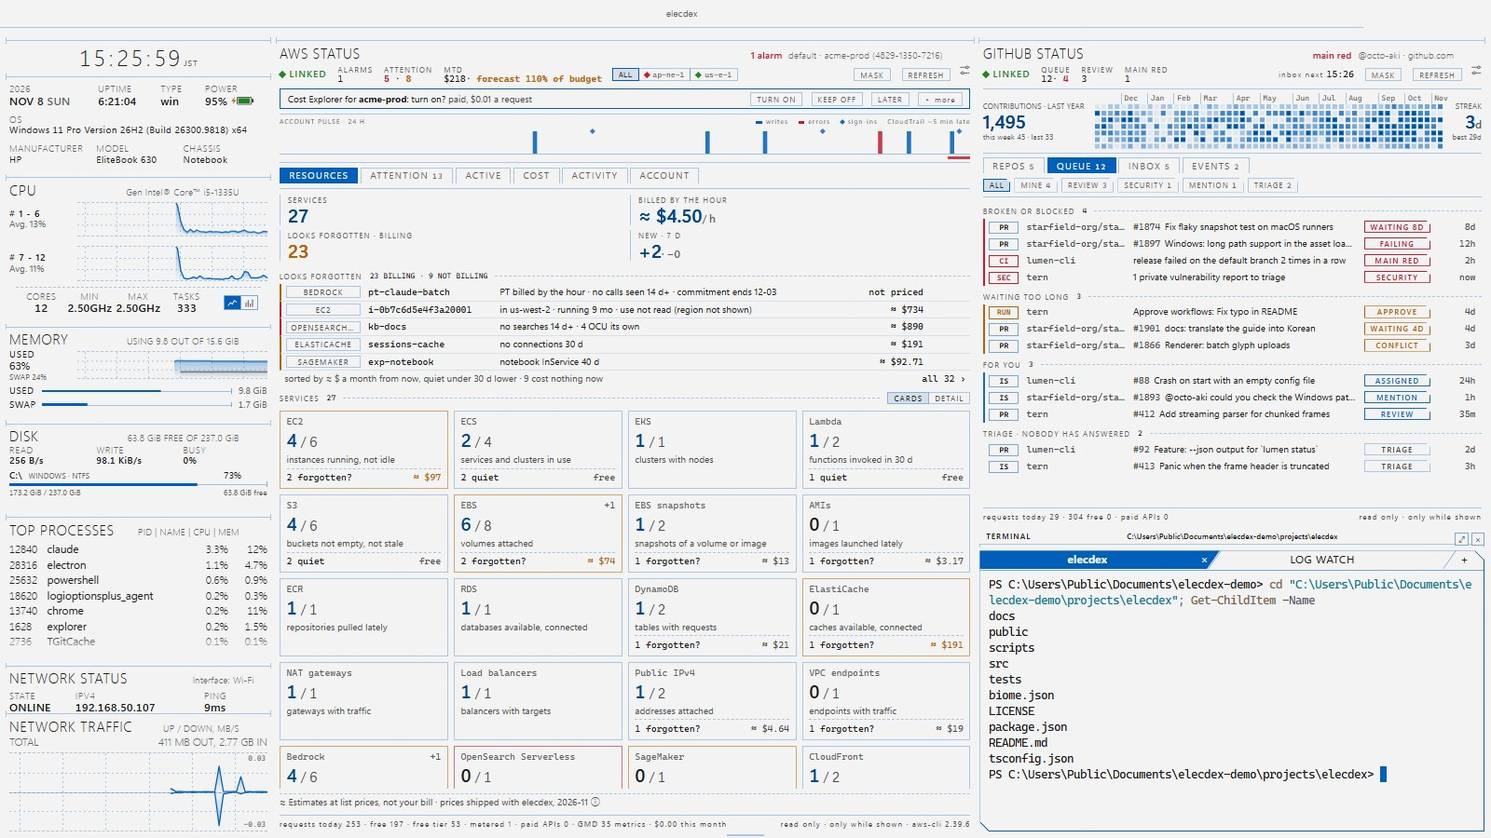
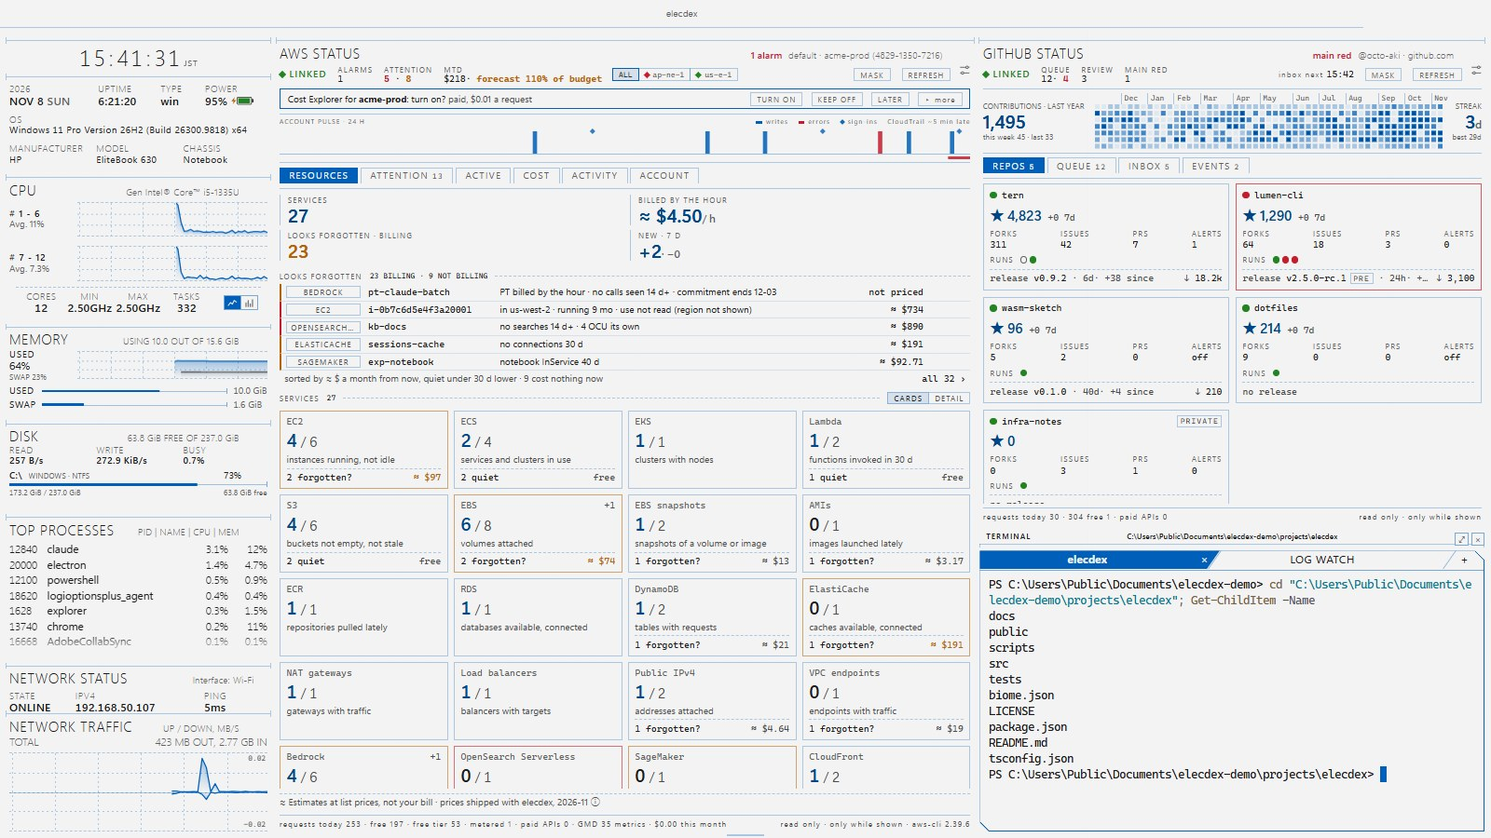
feat(github): GITHUB STATUS opens on REPOS / GITHUB STATUS を REPOS で開く
REPOS, already the first tab, is now the tab a pane opens on, by the user's decision; the others, QUEUE too, are kept in the pane's state. demo:github starts on the repositories and moves to QUEUE, and the GitHub pane's shot and the cloud preset's show the tiles. / 先頭に並べた REPOS を、利用者の決定でペインが開くタブにした。QUEUE を含むほかのタブはペインの状態に持つ。demo:github はリポジトリから始めて QUEUE に移り、GitHub のペインと cloud プリセットの絵はタイルを写す。

diff --git a/tests/e2e/panes/github.spec.ts b/tests/e2e/panes/github.spec.ts
@@ -17,11 +17,14 @@ const tab = (page: Page, index: 0 | 1) => page.getByTestId('tab').nth(index)
 
 const watching = (page: Page) => page.evaluate(() => window.elecdex.github.watching())
 
-test('reads the queue from gh while shown, and opens a row on github.com', async () => {
+test('opens on the repositories, reads the queue from gh while shown, and opens a row on github.com', async () => {
   const { app, page, close } = await launch(undefined, { layout: inTabs('github') })
   try {
     await captureOpens(app)
     await expect(page.getByTestId('github-link')).toContainText('LINKED')
+    // REPOS is the tab a pane opens on (the user's decision 2026-11-08).
+    await expect(page.getByTestId('github-tile').first()).toBeVisible()
+    await page.getByTestId('github-tab-queue').click({ delay: 20 })
     await expect(page.getByTestId('github-queue-row').first()).toBeVisible()
     // The red default branch comes from the runs, read on the first showing.
     await expect(page.getByTestId('github-red')).toBeVisible()
@@ -47,13 +50,13 @@ test('stops reading behind a tab, and keeps what it showed', async () => {
   const { app, page, close } = await launch(undefined, { layout: inTabs('github') })
   try {
     await expect(page.getByTestId('github-link')).toContainText('LINKED')
-    await expect(page.getByTestId('github-queue-row').first()).toBeVisible()
+    await expect(page.getByTestId('github-tile').first()).toBeVisible()
     await tab(page, 1).click({ delay: 20 })
     await expect.poll(() => watching(page)).toEqual([])
     // gh gone while hidden: what shows again is what main kept.
     await cloudMode(app, 'github', 'offline')
     await tab(page, 0).click({ delay: 20 })
-    await expect(page.getByTestId('github-queue-row').first()).toBeVisible()
+    await expect(page.getByTestId('github-tile').first()).toBeVisible()
     await expect.poll(() => watching(page)).toHaveLength(1)
   } finally {
     await cloudMode(app, 'github', null)

diff --git a/tests/component/github-widget.test.ts b/tests/component/github-widget.test.ts
@@ -124,7 +124,7 @@ describe('GithubWidget', () => {
   })
 
   it("shows main's QUEUE and opens a row by its id, never by a URL", async () => {
-    await mount()
+    await mount({ tab: 'queue' })
     const board = await boardOf('demo')
     await push(board)
     expect(screen.getByTestId('github-link').textContent).toContain('LINKED')
@@ -138,16 +138,20 @@ describe('GithubWidget', () => {
   it('switches tabs through the pane state', async () => {
     await mount()
     await push(await boardOf('demo'))
-    // REPOS at the left (the user's decision); QUEUE is still the tab a pane opens on.
+    // REPOS at the left, and the tab a pane opens on (the user's decision 2026-11-08).
     expect(screen.getAllByRole('tab').map((t) => t.dataset.testid)).toEqual([
       'github-tab-repos',
       'github-tab-queue',
       'github-tab-inbox',
       'github-tab-events',
     ])
-    expect(screen.getByTestId('github-tab-queue').getAttribute('aria-selected')).toBe('true')
+    expect(screen.getByTestId('github-tab-repos').getAttribute('aria-selected')).toBe('true')
+    expect(screen.getAllByTestId('github-tile').length).toBeGreaterThan(0)
+    // QUEUE is stored, REPOS (the default) is not.
+    await fireEvent.click(screen.getByTestId('github-tab-queue'))
+    expect(held.tab).toBe('queue')
     await fireEvent.click(screen.getByTestId('github-tab-repos'))
-    expect(held.tab).toBe('repos')
+    expect(held.tab).toBeUndefined()
   })
 
   it("takes a repository's card away as its tile is pressed into the runs", async () => {

diff --git a/src/renderer/widgets/github/GithubWidget.svelte b/src/renderer/widgets/github/GithubWidget.svelte
@@ -101,7 +101,7 @@ let inboxFilter = $state<string>('all')
 
 function selectTab(tab: Tab): void {
   sfx.play('panel')
-  patch({ tab: tab === 'queue' ? undefined : tab, drill: undefined })
+  patch({ tab: tab === 'repos' ? undefined : tab, drill: undefined })
 }
 
 const queue = $derived((board?.queue ?? []).filter((item) => queueMatches(item, filter)))
@@ -401,7 +401,7 @@ const short = $derived(height < 30 * 16)
     {/if}
 
     <div class="tabs" role="tablist" aria-label="github status">
-      <!-- REPOS first, at the left (the user's decision 2026-11-08); QUEUE stays the tab a new pane opens on. -->
+      <!-- REPOS first, at the left, and the tab a pane opens on (the user's decision 2026-11-08). -->
       {#each [['repos', 'REPOS', board?.repos.length], ['queue', 'QUEUE', board?.queue.length], ['inbox', 'INBOX', board?.inbox.readable ? board.inbox.items.filter((item) => item.unread).length : '—'], ['events', 'EVENTS', board?.events.length]] as [id, label, count] (id)}
         <button type="button" role="tab" aria-selected={choices.tab === id} onclick={() => selectTab(id as Tab)} data-testid="github-tab-{id}">{label}{#if count !== undefined}<em>{count}</em>{/if}</button>
       {/each}

diff --git a/tests/unit/github.test.ts b/tests/unit/github.test.ts
@@ -133,7 +133,8 @@ describe('board keys', () => {
   it('reads the pane state with its defaults', () => {
     expect(readGithubPane(undefined)).toEqual({
       spec: { repos: 'auto', inbox: 'all' },
-      tab: 'queue',
+      // REPOS is the tab a pane opens on (the user's decision 2026-11-08).
+      tab: 'repos',
       mask: false,
       band: true,
       drill: null,
@@ -141,14 +142,14 @@ describe('board keys', () => {
     expect(
       readGithubPane({
         repos: ['octo/tern', '..'],
-        tab: 'repos',
+        tab: 'queue',
         mask: true,
         band: false,
         drill: '../x',
       }),
     ).toMatchObject({
       spec: { repos: ['octo/tern'] },
-      tab: 'repos',
+      tab: 'queue',
       mask: true,
       band: false,
       drill: null,

diff --git a/src/shared/github/board.ts b/src/shared/github/board.ts
@@ -55,7 +55,8 @@ export function readGithubPane(state: Record<string, unknown> | undefined): {
   const pinned = Array.isArray(s.repos)
     ? s.repos.filter((r): r is string => repoName(r) !== null)
     : []
-  const tab = s.tab === 'inbox' || s.tab === 'events' || s.tab === 'repos' ? s.tab : 'queue'
+  // REPOS is the tab a pane opens on (the user's decision 2026-11-08); the others are stored.
+  const tab = s.tab === 'queue' || s.tab === 'inbox' || s.tab === 'events' ? s.tab : 'repos'
   return {
     spec: {
       repos: pinned.length > 0 ? pinned : 'auto',

diff --git a/docs/decisions.md b/docs/decisions.md
@@ -538,3 +538,4 @@
 | AWS STATUS の RESOURCES、CARDS（2026-11-08） | 利用者の提案「タイルの状態の線がビジー。GITHUB STATUS のように、サービスごとに 使用中 / 総数 をカードで。今の表示と切り替えられるようにし、既定をカードに」を、Fable 5.1 の UX/UI レビュー（aws.md §14.12 の 13 件）を入れて作った。サービスの見出し `SERVICES n` の右に `CARDS · DETAIL`、既定は CARDS で、DETAIL を選んだときだけペインの状態に `resView: 'detail'` を持つ。DETAIL は今のタイルのまま。数は main の純粋な `shared/aws/in-use.ts`（`serviceUse`、`ResourceTile.use`）が、見ているリージョンの行だけを LOOKS FORGOTTEN の行と鍵で突き合わせて数え、`総数 − 使用中 = forgotten + stopped + quiet + kept` が全タイルで成り立つ（代役の demo・partial・quiet・noregion と境界の例で単体テスト）。KEEP したものは忘れものから外れるが「使用中」の語（`volumes attached` など）にも当たらないので、§14.12 の 3 つに `kept` を足した。stopped は種類ごとの状態（EC2 の running 以外、RDS の available 以外、ECS の desired 0、NAT・VPC エンドポイント・TGW・VPN・ElastiCache・Redshift のクラスタの available 以外、SageMaker の InService 以外、Kinesis の ACTIVE・UPDATING 以外、Transfer の ONLINE 以外、CloudFront の無効、KMS の Disabled と PendingDeletion、Bedrock の PT の InService 以外）で、判定に当たらなかったものだけ。カードは群の固定の順、13 rem 以上の auto-fill、狭いペインは 2 列。代役のボリュームの id が東京の 5 台で同じになっていて、EBS の一覧が同じ鍵で落ちたので直した | 利用者の提案と Fable 5.1 のレビュー（aws.md §14.12）。ELSEWHERE を数えないのは、モックで `EBS 18 / 19` に `2 forgotten?` と出て引き算が合わなかったため。DETAIL のタイルの下の行は今のまま（ELSEWHERE の忘れものも数える） |
 | AWS STATUS と GITHUB STATUS の COPY、拒まれたサービスのカード（2026-11-08、利用者の報告） | COPY（サインインのコマンド、PARTIAL の COPY POLICY、GitHub のサインイン）は押しても点滅せず、すぐ COPIED に替わっていた。ほかの選択と同じく `afterBlink` の 3 拍の点滅のあとでコピーし、2 つのペインとも `CopyFlag` で COPIED を戻す（GitHub の自前の `setTimeout` をやめた）。RESOURCES の CARDS は、拒まれて何も読めていないサービスを `?` のカードにしていたが、十数枚並んでアカウントのものを埋めたので、DETAIL にタイルが無いのと同じくカードを出さず、Denied の行だけに名前を出す（利用者の決定） | 利用者の報告と決定 |
 | AWS STATUS の最初の表示の速さ、REFRESH の点滅、GITHUB STATUS のタブの順（2026-11-08、利用者の報告と決定） | **速さ**: この PC で AWS CLI の 1 回は約 1.2 秒（起動だけで 0.5 秒）。代役に 1 回 12 ms の遅れを入れて新しいアカウントの最初の 1 周を測ると 253 回で、CLI の枠 2 本・一括 1 本では、RESOURCES の数字まで約 33 秒、全サービスの件数まで約 230 秒、判定まで約 356 秒、全体で約 6 分半。ELSEWHERE の週 1 回の見回り（ほかのリージョンの describe 約 50 回）が件数の間に入っていた。枠を 4 本（`CLI_LANES`）、一括を 3 本（`BULK_LANES`）にし、見回りを判定の段（件数のあと）に回して、数字まで約 8 秒、件数まで約 85 秒、判定まで約 115 秒、全体で約 3 分。2 回目の起動（aws-inventory.json に読み取りがある）は 66 回で、ACTIVE の一覧を除いて約 3 秒で出る。6 本にしても数秒しか縮まず、Python の起動が並ぶ CPU を考えて 4 本にした。**REFRESH**: 押すと main が答える待ちの間ボタンが disabled になり、押下の点滅が 1 拍で切れていた。ほかの選択と同じく `afterBlink` の 3 拍のあとで頼む（両方のペイン）。MASK はアプリ全体のトグルと同じく押下の点滅だけのまま。**タブ**: GITHUB STATUS は REPOS を一番左に（利用者の決定）。新しいペインが開くタブは QUEUE のまま | 測定と利用者の報告・決定 |
+| GITHUB STATUS は REPOS で開く（2026-11-08、利用者の決定） | 先頭に並べた REPOS を、新しいペインが開くタブにもした。REPOS を既定にし、ほかのタブ（QUEUE も）をペインの状態に持つ。保存されたタブの無いペイン（これまで QUEUE で開いていたもの）も REPOS で開く。デモ（demo:github）は REPOS から始めて QUEUE に移り、pane-github.jpg と cloud プリセットの絵は REPOS を写す | 利用者の決定 |

diff --git a/docs/guide/panes-cloud.zh-CN.md b/docs/guide/panes-cloud.zh-CN.md
@@ -17,7 +17,7 @@ elecdex 是一个科幻风格的终端模拟器和系统监视器，是用 Elect
 ## cloud 预设
 
 <p align="center">
-  <img src="../screenshots/elecdex-cloud.jpg" alt="Business (Light) 主题下的 cloud 预设：左侧是系统列；虚构账户 acme-prod 的 AWS STATUS 窗格，显示一个告警、本月迄今金额及其相对预算的预测、两个区域的指示灯、询问 Cost Explorer 的一行、ACCOUNT PULSE 横带，以及显示 27 个服务、23 个看起来被遗忘且在计费的资源及其中最贵的 5 个、每个服务一张显示使用中 / 总数的卡片的 RESOURCES 标签页；右侧是虚构用户 octo-aki 的 GITHUB STATUS 窗格，显示贡献格子和按“损坏或受阻”“等待过久”“给你的”“待分拣”分组的 QUEUE；其下是一个 shell，旁边是 LOG WATCH 标签页">
+  <img src="../screenshots/elecdex-cloud.jpg" alt="Business (Light) 主题下的 cloud 预设：左侧是系统列；虚构账户 acme-prod 的 AWS STATUS 窗格，显示一个告警、本月迄今金额及其相对预算的预测、两个区域的指示灯、询问 Cost Explorer 的一行、ACCOUNT PULSE 横带，以及显示 27 个服务、23 个看起来被遗忘且在计费的资源及其中最贵的 5 个、每个服务一张显示使用中 / 总数的卡片的 RESOURCES 标签页；右侧是虚构用户 octo-aki 的 GITHUB STATUS 窗格，显示贡献格子和每个仓库的磁贴；其下是一个 shell，旁边是 LOG WATCH 标签页">
   <br><sub>cloud · Business (Light) · 替身 AWS CLI 和 gh，虚构的账户和用户</sub>
 </p>
 
@@ -155,8 +155,8 @@ AWS 托管策略 `ReadOnlyAccess`（或 `ViewOnlyAccess` 加 `AWSBillingReadOnly
 ## GITHUB STATUS
 
 <p align="center">
-  <img src="../screenshots/pane-github.jpg" alt="单独显示的 GITHUB STATUS 窗格，虚构用户 octo-aki：顶行为 QUEUE 12（其中 danger 4）、REVIEW 3、MAIN RED 1，以及下一次读取收件箱的时间；最近一年的贡献格子，1,495 次贡献、连续 3 天；带筛选的 QUEUE 标签页，按“损坏或受阻”（等待 8 天的拉取请求、失败的拉取请求、变红的默认分支、私密漏洞报告）、“等待过久”（待批准的工作流、等待 4 天的审查、冲突）、“给你的”（指派、提及、审查请求）和“待分拣”分组">
-  <br><sub>GITHUB STATUS · QUEUE · 替身 gh，虚构用户</sub>
+  <img src="../screenshots/pane-github.jpg" alt="单独显示的 GITHUB STATUS 窗格，虚构用户 octo-aki：顶行为 QUEUE 12（其中 danger 4）、REVIEW 3、MAIN RED 1，以及下一次读取收件箱的时间；最近一年的贡献格子，1,495 次贡献、连续 3 天；REPOS 标签页，每个仓库一个磁贴（4,823 星的 tern、1,290 星且默认分支变红的 lumen-cli、wasm-sketch、dotfiles 和私有的 infra-notes，各自显示复刻、议题、拉取请求、警报、最近的运行和最新发布）">
+  <br><sub>GITHUB STATUS · REPOS · 替身 gh，虚构用户</sub>
 </p>
 
 | | |
@@ -174,7 +174,7 @@ AWS 托管策略 `ReadOnlyAccess`（或 `ViewOnlyAccess` 加 `AWSBillingReadOnly
 
 | 标签页 | 显示内容 |
 | --- | --- |
-| **REPOS** | 每个仓库一个图块：星标及其 7 天变化、复刻、issue、拉取请求、警报、默认分支最近的运行、最新发布（含预发布）及其后的提交数，以及有推送权限时 14 天的访问量。可从图块下钻到它的运行、打开的拉取请求和发布 |
+| **REPOS**（*未发布：* 第一个标签页，窗格从这里打开） | 每个仓库一个图块：星标及其 7 天变化、复刻、issue、拉取请求、警报、默认分支最近的运行、最新发布（含预发布）及其后的提交数，以及有推送权限时 14 天的访问量。可从图块下钻到它的运行、打开的拉取请求和发布 |
 | **QUEUE** | 等你处理的事，每件一行，最重的在前：变红的默认分支、私密漏洞报告、失败、有冲突或被要求修改的你的拉取请求、等待批准的工作流运行、审查请求（3 天后为 warn，7 天后为 danger）、提及、指派，以及 TRIAGE——你的仓库中无人回应的 issue。筛选 ALL、MINE、REVIEW、SECURITY、MENTION、TRIAGE |
 | **INBOX** | 原始通知。窗格不标记任何已读。细粒度（fine-grained）令牌无法读取通知，标签页会注明 |
 | **EVENTS** | 所关注仓库最近 24 小时的事件，按仓库和类型（星标、复刻、issue、拉取请求、发布、推送）折叠 |

diff --git a/docs/guide/panes-cloud.md b/docs/guide/panes-cloud.md
@@ -17,7 +17,7 @@ On this page:
 ## The cloud preset
 
 <p align="center">
-  <img src="../screenshots/elecdex-cloud.jpg" alt="The cloud preset in the Business (Light) theme: the system column on the left; an AWS STATUS pane on a made-up account acme-prod with one alarm, the month to date and its forecast against the budget, two region lamps, the one-line Cost Explorer question, the ACCOUNT PULSE band and the RESOURCES tab with 27 services, 23 resources that look forgotten and are billed, the five dearest of them, and a card per service with how many are in use of all; on the right a GITHUB STATUS pane of a made-up user octo-aki with the contribution grid and the QUEUE grouped as broken or blocked, waiting too long, for you and triage; under it a shell with a LOG WATCH tab beside it">
+  <img src="../screenshots/elecdex-cloud.jpg" alt="The cloud preset in the Business (Light) theme: the system column on the left; an AWS STATUS pane on a made-up account acme-prod with one alarm, the month to date and its forecast against the budget, two region lamps, the one-line Cost Explorer question, the ACCOUNT PULSE band and the RESOURCES tab with 27 services, 23 resources that look forgotten and are billed, the five dearest of them, and a card per service with how many are in use of all; on the right a GITHUB STATUS pane of a made-up user octo-aki with the contribution grid and a tile per repository; under it a shell with a LOG WATCH tab beside it">
   <br><sub>cloud · Business (Light) · a stand-in AWS CLI and gh, made-up account and user</sub>
 </p>
 
@@ -155,8 +155,8 @@ AWS's managed policy `ReadOnlyAccess` (or `ViewOnlyAccess` with `AWSBillingReadO
 ## GITHUB STATUS
 
 <p align="center">
-  <img src="../screenshots/pane-github.jpg" alt="The GITHUB STATUS pane on its own, for a made-up user octo-aki: the top row with QUEUE 12 of which 4 danger, REVIEW 3 and MAIN RED 1, the next inbox reading; the contribution grid of the last year with 1,495 contributions and a 3-day streak; the QUEUE tab with its filters, grouped as broken or blocked (a pull request waiting 8 days, one failing, a default branch red, a private vulnerability report), waiting too long (workflows to approve, a review waiting 4 days, a conflict), for you (an assignment, a mention, a review request) and triage">
-  <br><sub>GITHUB STATUS · QUEUE · a stand-in gh, a made-up user</sub>
+  <img src="../screenshots/pane-github.jpg" alt="The GITHUB STATUS pane on its own, for a made-up user octo-aki: the top row with QUEUE 12 of which 4 danger, REVIEW 3 and MAIN RED 1, the next inbox reading; the contribution grid of the last year with 1,495 contributions and a 3-day streak; the REPOS tab, a tile per repository: tern with 4,823 stars, lumen-cli with 1,290 and its default branch red, wasm-sketch, dotfiles and the private infra-notes, each with forks, issues, pull requests, alerts, its last runs and its latest release">
+  <br><sub>GITHUB STATUS · REPOS · a stand-in gh, a made-up user</sub>
 </p>
 
 | | |
@@ -174,7 +174,7 @@ The tabs:
 
 | Tab | What it shows |
 | --- | --- |
-| **REPOS** | A tile per repository: stars and their 7-day change, forks, issues, pull requests, alerts, the default branch's last runs, the latest release (prereleases included) and the commits since, and views over 14 days where you have push access. A tile drills into its runs, open pull requests and releases |
+| **REPOS** (*unreleased:* the first tab, and the one a pane opens on) | A tile per repository: stars and their 7-day change, forks, issues, pull requests, alerts, the default branch's last runs, the latest release (prereleases included) and the commits since, and views over 14 days where you have push access. A tile drills into its runs, open pull requests and releases |
 | **QUEUE** | What waits on you, one row per thing, heaviest first: a default branch red, private vulnerability reports, your pull requests failing, conflicting or with changes requested, workflow runs waiting for approval, review requests (warn after 3 days, danger after 7), mentions, assignments, and TRIAGE - issues nobody has answered in your repositories. Filters ALL, MINE, REVIEW, SECURITY, MENTION, TRIAGE |
 | **INBOX** | The raw notifications. The pane marks nothing read. A fine-grained token cannot read notifications, and the tab says so |
 | **EVENTS** | The last 24 hours in the watched repositories, folded by repository and kind (stars, forks, issues, pull requests, releases, pushes) |

diff --git a/docs/guide/presets.ja.md b/docs/guide/presets.ja.md
@@ -422,7 +422,7 @@ elecdex を最初に開いたときの配置です。
 | 状態 | v0.0.60 でリリース |
 
 <p align="center">
-  <img src="../screenshots/elecdex-cloud.jpg" alt="Business (Light) テーマの cloud プリセット：左にシステムの列。架空のアカウント acme-prod の AWS STATUS ペイン（アラーム 1 件、今月ここまでの額と予算に対する予測、Cost Explorer を尋ねる 1 行、ACCOUNT PULSE の帯、忘れていそうなものと、サービスごとに使用中 / 総数を示すカードの RESOURCES のタブ）。右に架空の利用者 octo-aki の GITHUB STATUS ペイン（貢献の格子と QUEUE）。その下にシェルと、その横の LOG WATCH のタブ">
+  <img src="../screenshots/elecdex-cloud.jpg" alt="Business (Light) テーマの cloud プリセット：左にシステムの列。架空のアカウント acme-prod の AWS STATUS ペイン（アラーム 1 件、今月ここまでの額と予算に対する予測、Cost Explorer を尋ねる 1 行、ACCOUNT PULSE の帯、忘れていそうなものと、サービスごとに使用中 / 総数を示すカードの RESOURCES のタブ）。右に架空の利用者 octo-aki の GITHUB STATUS ペイン（貢献の格子とリポジトリ）。その下にシェルと、その横の LOG WATCH のタブ">
   <br><sub>cloud · Business (Light) — 代役の AWS CLI と gh、架空のアカウントと利用者</sub>
 </p>
 

diff --git a/docs/guide/presets.md b/docs/guide/presets.md
@@ -451,7 +451,7 @@ The machine behind its tab is paused while it is out of sight.
 | Status | Released in v0.0.60 |
 
 <p align="center">
-  <img src="../screenshots/elecdex-cloud.jpg" alt="The cloud preset in the Business (Light) theme: the system column on the left; an AWS STATUS pane on a made-up account acme-prod with one alarm, the month to date and its forecast against the budget, the one-line Cost Explorer question, the ACCOUNT PULSE band and the RESOURCES tab of what looks forgotten and a card per service, in use of all; on the right a GITHUB STATUS pane of a made-up user octo-aki with the contribution grid and its QUEUE; under it a shell with a LOG WATCH tab beside it">
+  <img src="../screenshots/elecdex-cloud.jpg" alt="The cloud preset in the Business (Light) theme: the system column on the left; an AWS STATUS pane on a made-up account acme-prod with one alarm, the month to date and its forecast against the budget, the one-line Cost Explorer question, the ACCOUNT PULSE band and the RESOURCES tab of what looks forgotten and a card per service, in use of all; on the right a GITHUB STATUS pane of a made-up user octo-aki with the contribution grid and its repositories; under it a shell with a LOG WATCH tab beside it">
   <br><sub>cloud · Business (Light) — a stand-in AWS CLI and gh, made-up account and user</sub>
 </p>
 

diff --git a/docs/guide/presets.zh-CN.md b/docs/guide/presets.zh-CN.md
@@ -399,7 +399,7 @@ elecdex 启动时的默认布局。
 | 状态 | 于 v0.0.60 发布 |
 
 <p align="center">
-  <img src="../screenshots/elecdex-cloud.jpg" alt="Business (Light) 主题下的 cloud 预设：左侧是系统栏；虚构账户 acme-prod 的 AWS STATUS 窗格，显示一个告警、本月迄今金额及其相对预算的预测、询问 Cost Explorer 的一行、ACCOUNT PULSE 横带和显示看起来被遗忘的资源与每个服务使用中 / 总数卡片的 RESOURCES 标签页；右侧是虚构用户 octo-aki 的 GITHUB STATUS 窗格，显示贡献格子和 QUEUE；其下是一个 shell，旁边是 LOG WATCH 标签页">
+  <img src="../screenshots/elecdex-cloud.jpg" alt="Business (Light) 主题下的 cloud 预设：左侧是系统栏；虚构账户 acme-prod 的 AWS STATUS 窗格，显示一个告警、本月迄今金额及其相对预算的预测、询问 Cost Explorer 的一行、ACCOUNT PULSE 横带和显示看起来被遗忘的资源与每个服务使用中 / 总数卡片的 RESOURCES 标签页；右侧是虚构用户 octo-aki 的 GITHUB STATUS 窗格，显示贡献格子和仓库；其下是一个 shell，旁边是 LOG WATCH 标签页">
   <br><sub>cloud · Business (Light) — 替身 AWS CLI 和 gh，虚构的账户和用户</sub>
 </p>
 
